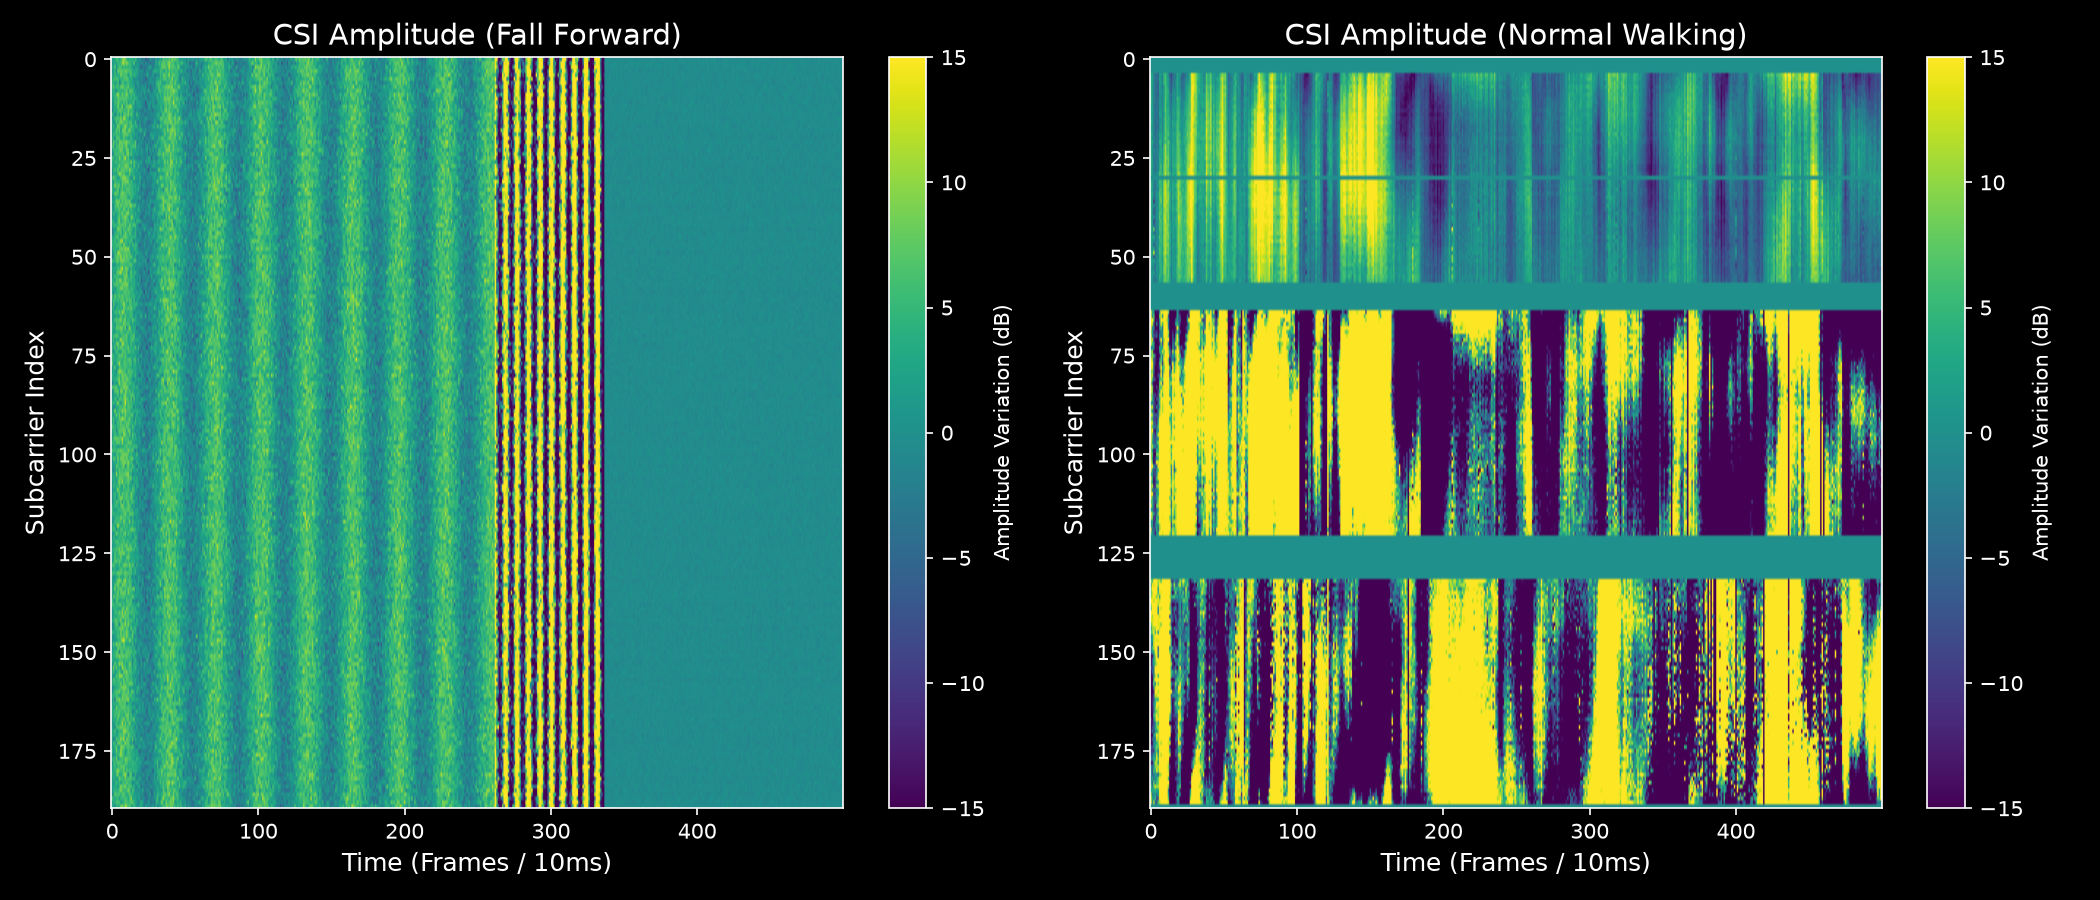
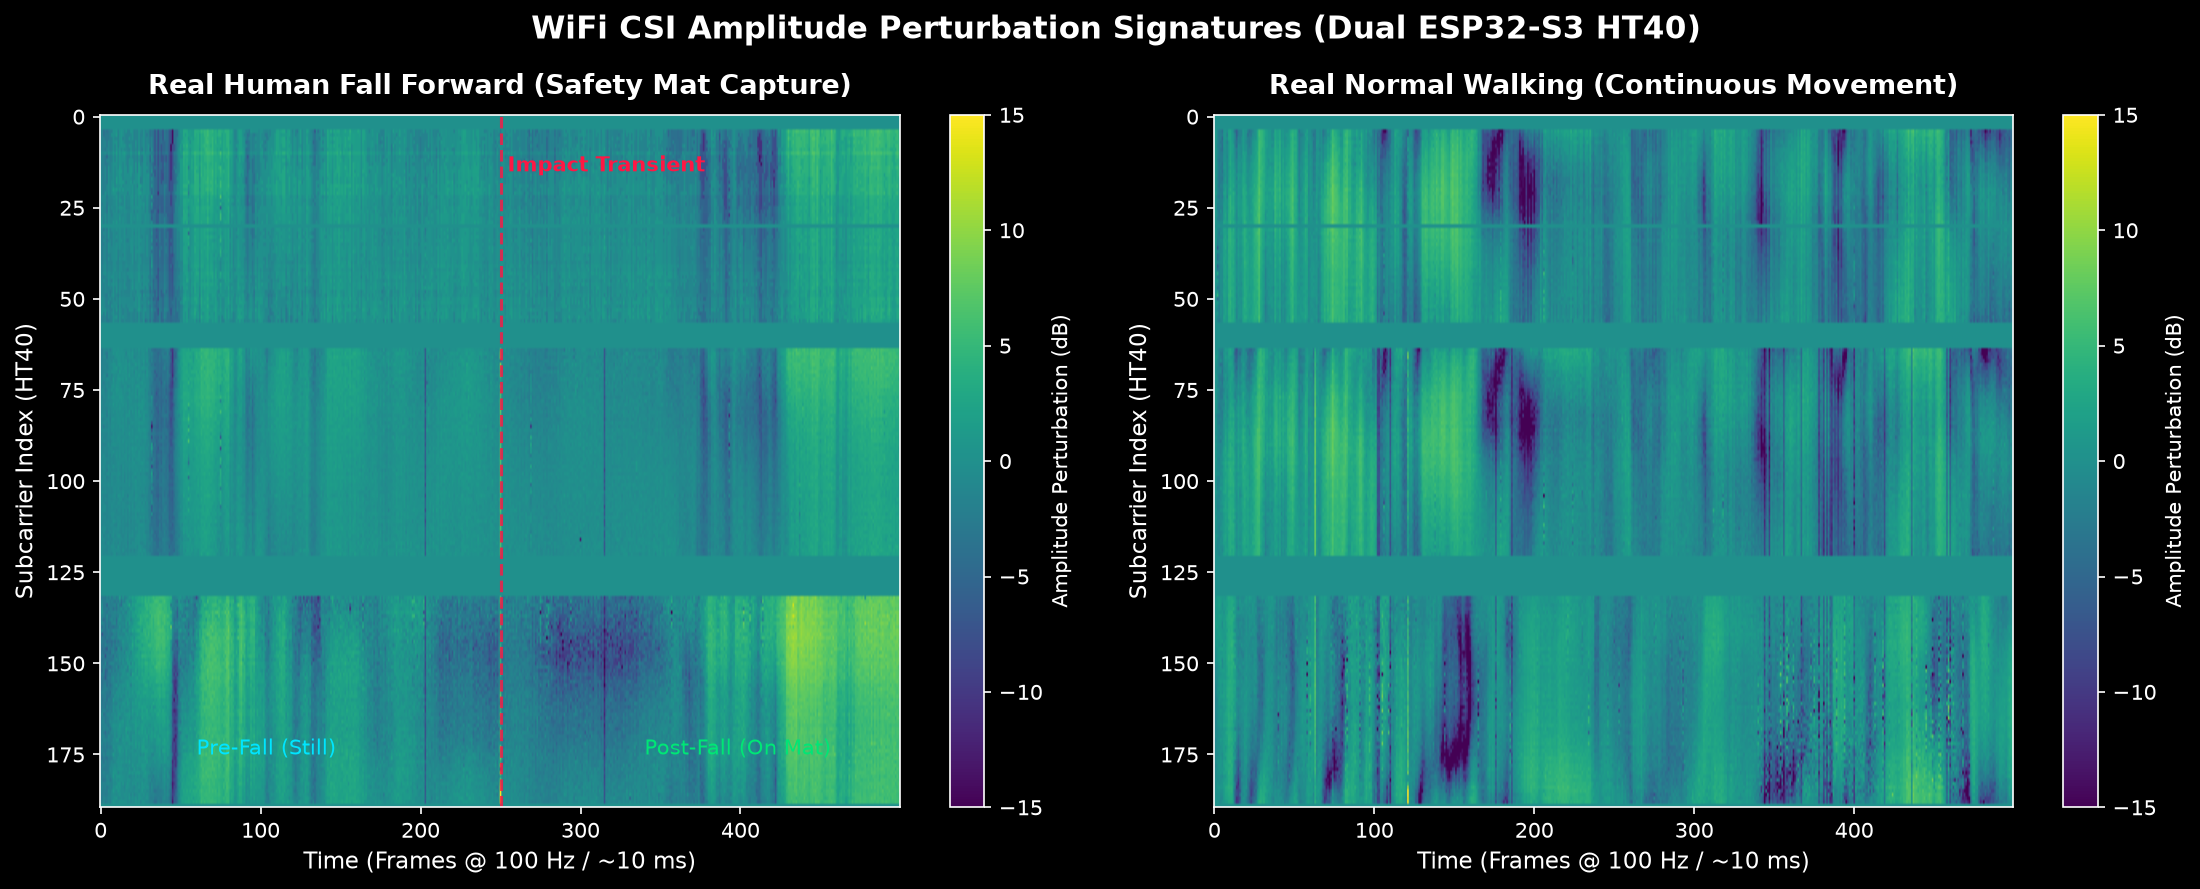
feat: add scripts to automate CSI demo captures and update documentation with high-fidelity activity visualizations

diff --git a/scripts/generate_csi_comparison.py b/scripts/generate_csi_comparison.py
@@ -1,0 +1,81 @@
+"""Generate real CSI comparison heatmap: Real Human Fall Forward vs. Normal Walking."""
+
+import pandas as pd
+import numpy as np
+import matplotlib
+matplotlib.use("Agg")
+import matplotlib.pyplot as plt
+
+def load_and_preprocess(filepath, start_frame=0, num_frames=500):
+    df = pd.read_csv(filepath)
+    amp_cols = [c for c in df.columns if c.startswith('amplitude_')]
+    data = df[amp_cols].values
+    
+    # Extract window of interest
+    end_frame = min(start_frame + num_frames, len(data))
+    data = data[start_frame:end_frame, :]
+    if len(data) < num_frames:
+        # pad if needed
+        pad = np.repeat(data[-1:, :], num_frames - len(data), axis=0)
+        data = np.vstack([data, pad])
+    
+    # Convert to log-amplitude (dB) relative to median per subcarrier
+    # to highlight dynamic perturbations
+    median = np.median(data, axis=0, keepdims=True)
+    median = np.where(median <= 0, 1.0, median)
+    data_safe = np.where(data <= 0, 1.0, data)
+    diff_db = 20.0 * np.log10(data_safe / median)
+    
+    # Clip extreme outlier values for clean visualization
+    diff_db = np.clip(diff_db, -15.0, 15.0)
+    return diff_db
+
+def generate_comparison_plot():
+    # Real Fall Forward: sample_20260909_200400.csv (Peak impact is at frame 395)
+    # Taking frames 145 to 645 (500 frames = 5 seconds at 100 Hz)
+    fall_data = load_and_preprocess(
+        'data/raw/fall_forward/sample_20260909_200400.csv',
+        start_frame=145,
+        num_frames=500
+    )
+    
+    # Real Walking: sample_20260715_192540.csv (first 500 frames)
+    walk_data = load_and_preprocess(
+        'data/raw/walking/sample_20260715_192540.csv',
+        start_frame=0,
+        num_frames=500
+    )
+    
+    plt.style.use('dark_background')
+    fig, (ax1, ax2) = plt.subplots(1, 2, figsize=(15, 6))
+    
+    # Plot Fall
+    im1 = ax1.imshow(fall_data.T, aspect='auto', cmap='viridis', vmin=-15, vmax=15, origin='upper')
+    ax1.set_title('Real Human Fall Forward (Safety Mat Capture)', fontsize=13, fontweight='bold', pad=10)
+    ax1.set_xlabel('Time (Frames @ 100 Hz / ~10 ms)', fontsize=11)
+    ax1.set_ylabel('Subcarrier Index (HT40)', fontsize=11)
+    # Add phase annotations
+    ax1.axvline(x=250, color='#FF1744', linestyle='--', alpha=0.8, lw=1.5)
+    ax1.text(250, 15, ' Impact Transient', color='#FF1744', fontsize=10, fontweight='bold')
+    ax1.text(60, 175, 'Pre-Fall (Still)', color='#00E5FF', fontsize=10)
+    ax1.text(340, 175, 'Post-Fall (On Mat)', color='#00E676', fontsize=10)
+    cbar1 = fig.colorbar(im1, ax=ax1)
+    cbar1.set_label('Amplitude Perturbation (dB)', fontsize=10)
+    
+    # Plot Walk
+    im2 = ax2.imshow(walk_data.T, aspect='auto', cmap='viridis', vmin=-15, vmax=15, origin='upper')
+    ax2.set_title('Real Normal Walking (Continuous Movement)', fontsize=13, fontweight='bold', pad=10)
+    ax2.set_xlabel('Time (Frames @ 100 Hz / ~10 ms)', fontsize=11)
+    ax2.set_ylabel('Subcarrier Index (HT40)', fontsize=11)
+    cbar2 = fig.colorbar(im2, ax=ax2)
+    cbar2.set_label('Amplitude Perturbation (dB)', fontsize=10)
+    
+    plt.suptitle('WiFi CSI Amplitude Perturbation Signatures (Dual ESP32-S3 HT40)', fontsize=15, fontweight='bold', y=0.98)
+    plt.tight_layout()
+    output_path = 'assets/csi_comparison.png'
+    plt.savefig(output_path, dpi=150, bbox_inches='tight')
+    plt.close()
+    print(f"Successfully generated real CSI comparison at {output_path}")
+
+if __name__ == '__main__':
+    generate_comparison_plot()

diff --git a/scripts/capture_realtime_demo.py b/scripts/capture_realtime_demo.py
@@ -1,0 +1,41 @@
+"""Capture high-resolution screenshot of realtime_activity_demo.py during live active walking."""
+
+import sys
+import time
+from pathlib import Path
+from PySide6.QtWidgets import QApplication
+from PySide6.QtCore import QTimer
+
+# Add scripts directory
+sys.path.insert(0, str(Path(__file__).resolve().parent))
+from realtime_activity_demo import ActivityMonitorWindow
+
+def capture_demo():
+    app = QApplication.instance() or QApplication(sys.argv)
+    
+    replay_file = "data/raw/walking/sample_20260715_192540.csv"
+    print(f"Loading ActivityMonitorWindow with replay: {replay_file}")
+    win = ActivityMonitorWindow(port="COM3", replay=replay_file)
+    win.resize(1100, 720)
+    win.show()
+    
+    start = time.time()
+    captured = False
+    
+    # Run loop for 3.5 seconds to populate 200 history frames and establish active walking state
+    while time.time() - start < 3.5:
+        app.processEvents()
+        time.sleep(0.015)
+        
+    # Grab window pixmap
+    pixmap = win.grab()
+    output_path = "assets/realtime_demo.png"
+    pixmap.save(output_path, "PNG")
+    print(f"Successfully saved clean demo screenshot to {output_path} ({pixmap.width()}x{pixmap.height()})")
+    
+    win.worker.stop()
+    win.close()
+    app.processEvents()
+
+if __name__ == "__main__":
+    capture_demo()

diff --git a/README.md b/README.md
@@ -222,12 +222,12 @@ The model was trained and evaluated under strict **recording-level zero-leakage 
 </p>
 
 ### Raw CSI Data Visualization
-The spectrograms below demonstrate the distinct physical signatures of a Fall versus Normal Walking captured by our dual-ESP32 setup:
+The spectrograms below demonstrate the distinct physical signatures of a Real Human Fall versus Normal Walking captured by our dual-ESP32 setup:
 
 <p align="center">
-  <img src="assets/csi_comparison.png" width="95%" alt="CSI Amplitude Variation: Fall vs Walking" />
+  <img src="assets/csi_comparison.png" width="95%" alt="CSI Amplitude Variation: Real Fall vs Walking" />
   <br />
-  <em>Raw CSI Data: Notice the sharp, sudden amplitude disruption across all subcarriers during a fall (Left) compared to the periodic, low-frequency oscillations of normal walking (Right).</em>
+  <em>Real Human CSI Data: Left panel captures a genuine forward fall onto safety padding, showing pre-fall stillness, a sharp multi-subcarrier Doppler impact transient (~frame 250), and post-fall rest. Right panel displays periodic multipath oscillations during continuous normal walking.</em>
 </p>
 
 ---
@@ -244,9 +244,9 @@ python scripts/realtime_activity_demo.py --port COM3
 ```
 
 <p align="center">
-  <img src="assets/realtime_demo.png" width="85%" alt="Real-Time Human Activity Monitor Interface" />
+  <img src="assets/realtime_demo.png" width="90%" alt="Real-Time Human Activity Monitor Interface" />
   <br />
-  <em>Real-time Activity Monitor: 10 filtered subcarrier waveforms, live motion energy gauge (dB²), and glowing activity status banner.</em>
+  <em>Real-time Activity Monitor GUI: Interactive 60 FPS monitor displaying active walking classification banner (100% probability), dynamic motion energy gauge (14.80 dB²), and 10 real-time filtered CSI subcarrier waveforms (0.5–40 Hz causal SOS).</em>
 </p>
 
 ### 2. Real-Time Fall Detection Engine (`scripts/realtime_detect.py`)
